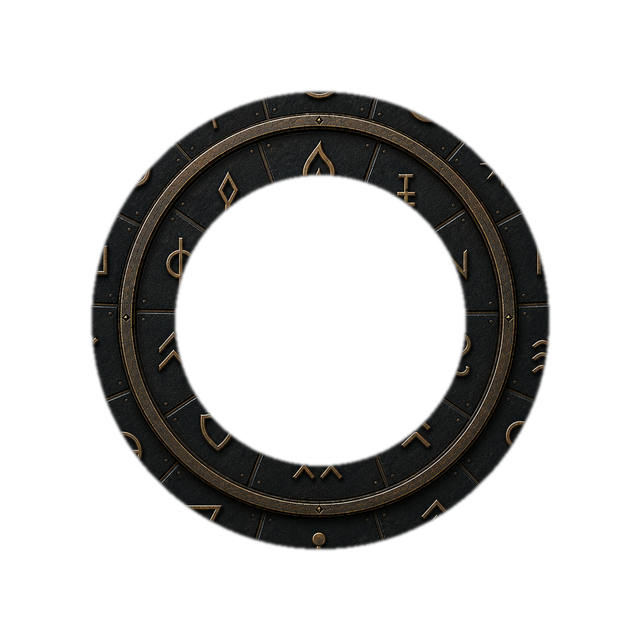
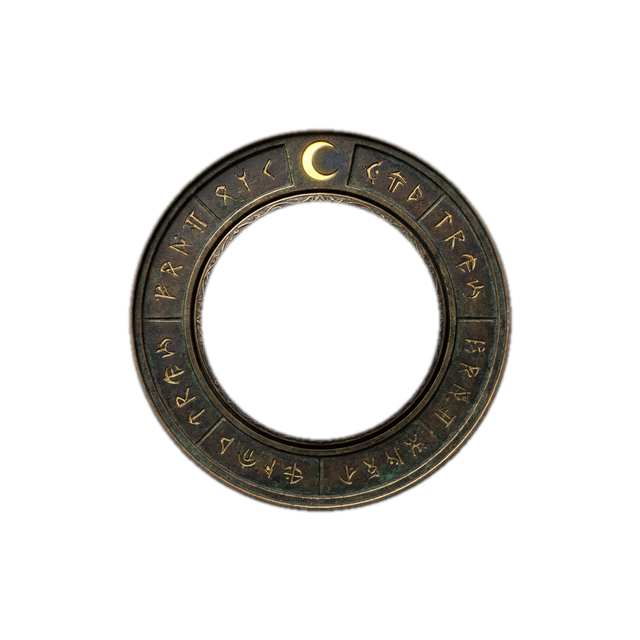
Deel 2: rollen gescheiden — boek geeft onzichtbaarheid, DEURZEGEL (nieuwe visual) opent de deur
Duidelijke driedeling:
1. HEMELSCHIJF (zonnestelsel, verstrengelde ringen) -> zonsverduistering-spreuk
2. Met de zonsverduistering is het gloeiende BOEK te lezen -> SPREUK VAN ONZICHTBAARHEID
   (signsBook geeft nu direct de spreuk + toont de Umbra-Invisibilis-pagina; engine
   ondersteunt setFlag-array + give + firstText)
3. DEURZEGEL op het sterren-altaar (schijven + hendel) -> opent alleen de GEHEIME DEUR

Nieuwe visual voor de schijven-puzzel:
- Vers gegenereerd bronzen deurzegel (Higgsfield): drie draaibare ringen met gouden
  runen, en de doelen zichtbaar in het zegel zelf: ZON op de buitenste, MAAN op de
  middelste, STER op de binnenste ring - draai alle drie BOVENAAN en trek aan de hendel
- Zelfstandig oplosbaar (geen boek-referentie meer nodig); ringlagen naadloos gesneden,
  klik-banden bijgesteld; gate: schijven zitten 'muurvast' tot je de boek-geheimen kent
- Raaf/quests/looks volgen de nieuwe volgorde. Cache deel2 v155

Changed region(s): [[0.125, 0.125, 0.875, 0.875]]

diff --git a/games/ravenholt-deel2/js/data.js b/games/ravenholt-deel2/js/data.js
@@ -14,7 +14,7 @@ const GAME = {
   title:      { nl: 'Fluisteringen van Ravenholt — Deel 2', en: 'Whispers of Ravenholt — Part 2' },
   titleLines: { nl: ['Fluisteringen', 'van Ravenholt', '· Deel 2 ·'], en: ['Whispers of', 'Ravenholt', '· Part 2 ·'] },
   startScene: 'courtyard',
-  assetVer: '154',
+  assetVer: '155',
 
   /* Finn — vaste figuur: roodharige jongen, blauwe kapmantel, leren tas, houten staf.
      idle = hero, lopen = 4-frame loopsheet (heroWalkSheet), zwaaien = heroWave.
@@ -132,8 +132,8 @@ const GAME = {
     q_takespell:{ nl: 'De tovenaar zweeft in hogere sferen — bekijk het ZONNESTELSEL op de sokkel rechts en draai de hemelschijf: daar wacht de Zonsverduistering-spreuk', en: 'The wizard floats among the stars — examine the SOLAR SYSTEM on the pedestal to the right and turn the celestial disc: the Solar Eclipse spell awaits' },
     q_castEclipse:{ nl: 'Je hebt de Zonsverduistering-spreuk! Tik hem aan in je tas en spreek hem uit bij het grote raam van de bibliotheek', en: 'You have the Solar Eclipse spell! Tap it in your bag and speak it at the great library window' },
     q_telescope:{ nl: 'De zon is verduisterd en de sterren fonkelen — kijk snel door de telescoop bij het raam!', en: 'The sun is darkened and the stars sparkle — quick, look through the telescope by the window!' },
-    q_readbook: { nl: 'De zon is verduisterd — boven het gloeiende boek zweeft het HEMELZEGEL! Tik het boek aan en onthoud precies hoe de drie schijven staan', en: 'The sun is eclipsed — the CELESTIAL SEAL hovers above the glowing book! Tap the book and remember exactly how the three discs stand' },
-    q_altar:    { nl: 'Je zag het hemelzegel! Draai de drie schijven van het sterren-altaar precies zoals op het zegel (zon ☉ bovenaan) en trek aan de hendel — dan opent de geheime deur én wacht de onzichtbaarheidsspreuk', en: 'You saw the celestial seal! Turn the three discs of the star altar exactly as on the seal (sun ☉ at the top) and pull the lever — the secret door opens and the invisibility spell awaits' },
+    q_readbook: { nl: 'De zon is verduisterd — het gloeiende boek is nu te LEZEN! Tik het aan en ontvang de SPREUK VAN ONZICHTBAARHEID', en: 'The sun is eclipsed — the glowing book can be READ now! Tap it and receive the SPELL OF INVISIBILITY' },
+    q_altar:    { nl: 'De onzichtbaarheidsspreuk is binnen! Open nu de geheime deur: draai de schijven van het DEURZEGEL tot zon ☉, maan ☽ en ster ✦ alle drie bovenaan staan, en trek aan de hendel', en: 'The invisibility spell is yours! Now open the secret door: turn the DOOR SEAL discs until sun ☉, moon ☽ and star ✦ all sit at the top, then pull the lever' },
     q_dungeon:  { nl: 'De geheime deur staat open! Daal de trap af naar de kerker. Een wachter verspert de weg naar de gevangene — tik de onzichtbaarheidsspreuk aan om ongezien langs hem te sluipen', en: 'The secret door is open! Descend the stair to the dungeon. A guard blocks the way to the prisoner — tap the invisibility spell to slip past him unseen' },
     q_freefather:{ nl: 'Je bent onzichtbaar langs de wachter! Praat met de gevangene bij de tralies — hij fluistert de volgorde van het kerkerslot: zon, maan, ster... en het teken van zijn staf', en: 'You slipped past the guard unseen! Talk to the prisoner at the bars — he whispers the order of the dungeon lock: sun, moon, star... and the sign of his staff' },
     q_key:      { nl: 'De grendels zijn open! Pak nu MUISSTIL de sleutel van de wachttafel: trek alleen terwijl de wachter neuriet (♪) — hij kan je nog steeds horen', en: 'The bolts are open! Now take the key from the guard’s table SILENTLY: pull only while the guard hums (♪) — he can still hear you' },
@@ -156,7 +156,7 @@ const GAME = {
     staff: { name: { nl: 'Vaders Staf', en: 'Father’s Staff' }, icon: '🪄', img: 'assets/art/item-staff.png',
              look: { nl: 'De houten staf van mijn vader. Hij voelt vertrouwd in je hand — met de juiste spreuk in je boek kun je hem laten werken.', en: 'My father’s wooden staff. It feels familiar in your hand — with the right spell in your book you can make it work.' } },
     invisspell: { name: { nl: 'Onzichtbaarheidsspreuk', en: 'Invisibility Spell' }, icon: '👻', img: 'assets/art/item-invisspell.png', sparkle: true, border: 'blue',
-             look: { nl: 'De onzichtbaarheidsspreuk uit het hemelzegel op het sterren-altaar. De letters lijken weg te vagen terwijl je kijkt... Spreek hem uit waar een bewaker je níet mag zien. (Tik de spreuk aan om hem uit te spreken.)', en: 'The invisibility spell from the celestial seal on the star altar. Its letters seem to fade away as you watch... Speak it where a guard must not see you. (Tap the spell to cast it.)' } },
+             look: { nl: 'De onzichtbaarheidsspreuk uit het gloeiende boek — gelezen bij het licht van de zonsverduistering. De letters lijken weg te vagen terwijl je kijkt... Spreek hem uit waar een bewaker je níet mag zien. (Tik de spreuk aan om hem uit te spreken.)', en: 'The invisibility spell from the glowing book — read by the light of the solar eclipse. Its letters seem to fade away as you watch... Speak it where a guard must not see you. (Tap the spell to cast it.)' } },
     eclipsspell: { name: { nl: 'Zonsverduistering-spreuk', en: 'Solar Eclipse Spell' }, icon: '🌑', img: 'assets/art/item-eclipsspell.png', border: 'blue',
              look: { nl: 'De Spreuk van de Zonsverduistering — “Umbra Solis” — uit het gloeiende boek. Spreek hem uit bij het grote raam van de bibliotheek en de zon dooft, zodat de sterren zich overdag tonen. (Tik de spreuk aan om hem uit te spreken.)', en: 'The Spell of the Solar Eclipse — “Umbra Solis” — from the glowing book. Speak it at the great library window and the sun goes dark, so the stars show themselves by day. (Tap the spell to cast it.)' } },
     hammer: { name: { nl: 'Smidshamer', en: 'Blacksmith’s Hammer' }, icon: '🔨', img: 'assets/art/item-hammer.png',
@@ -843,11 +843,11 @@ const GAME = {
           look: (state) => state.flags.altarSolved
             ? { nl: '\u201CKrra! De geheime deur staat open \u2014 de trap af, de kerker in! En onthoud: wat een wachter niet z\u00EDet, kan hij niet tegenhouden...\u201D', en: '\u201CCaw! The secret door stands open \u2014 down the stairs, into the dungeon! And remember: what a guard cannot SEE, he cannot stop...\u201D' }
             : state.flags.sawSigns
-            ? { nl: '\u201CKrra! Je z\u00e1g het hemelzegel! Draai de drie schijven van het altaar precies zo \u2014 zon bovenaan! \u2014 en trek aan de hendel: dan zwaait de geheime deur open.\u201D', en: '\u201CCaw! You SAW the celestial seal! Turn the three discs of the altar to match \u2014 sun at the top! \u2014 and pull the lever: the secret door will swing open.\u201D' }
+            ? { nl: '\u201CKrra! De onzichtbaarheidsspreuk is van jou! Nu de geheime deur: draai de schijven van het altaar \u2014 zon, maan \u00e9n ster B\u00d3VENAAN \u2014 en trek aan de hendel!\u201D', en: '\u201CCaw! The invisibility spell is yours! Now the secret door: turn the altar discs \u2014 sun, moon AND star at the TOP \u2014 and pull the lever!\u201D' }
             : state.flags.eclipseActive
-            ? { nl: '\u201CKrra! De zon is gedoofd \u2014 kijk, boven het gloeiende boek zweeft het HEMELZEGEL! Bekijk het goed en onthoud hoe de schijven staan \u2014 dan weet je hoe het altaar moet.\u201D', en: '\u201CCaw! The sun is dark \u2014 look, the CELESTIAL SEAL hovers above the glowing book! Study it well and remember how the discs stand \u2014 then you know how to set the altar.\u201D' }
+            ? { nl: '\u201CKrra! De zon is gedoofd \u2014 het boek is nu te L\u00c9ZEN! Tik het aan: daarin wacht de spreuk van de onzichtbaarheid.\u201D', en: '\u201CCaw! The sun is dark \u2014 the book can be READ now! Tap it: the spell of invisibility waits inside.\u201D' }
             : state.flags.gotEclipseSpell
-            ? { nl: '\u201CKrra! Je hebt de spreuk! Tik hem aan in je tas en spreek hem uit \u2014 dan dooft de zon en verschijnt het hemelzegel boven het boek.\u201D', en: '\u201CCaw! You have the spell! Tap it in your bag and speak it \u2014 the sun will darken and the celestial seal will appear above the book.\u201D' }
+            ? { nl: '\u201CKrra! Je hebt de spreuk! Tik hem aan in je tas en spreek hem uit \u2014 dan dooft de zon en kun je het gloeiende boek eindelijk lezen.\u201D', en: '\u201CCaw! You have the spell! Tap it in your bag and speak it \u2014 the sun will darken and you can finally read the glowing book.\u201D' }
             : state.flags.wizardTripping
             ? { nl: '\u201CKrra! Moet je hem zien zweven... Sn\u00E9l \u2014 kijk naar het ZONNESTELSEL op de sokkel rechts! Draai de hemelschijf tot zon, maan en ster op \u00E9\u00E9n lijn staan \u2014 d\u00E1\u00E1r zit de zonsverduistering-spreuk in.\u201D', en: '\u201CCaw! Look at him float... Quick \u2014 look at the SOLAR SYSTEM on the pedestal to the right! Turn the celestial disc until sun, moon and star line up \u2014 that is where the eclipse spell hides.\u201D' }
             : { nl: 'De raaf zit parmantig op de vensterbank. \u201CKrra! Die oude tovenaar wijkt geen duimbreed van zijn instrumenten... Maar ik weet w\u00E1t hij niet kan weerstaan: paddenstoelen! Van die glimmende, bij de oude put op de binnenplaats.\u201D', en: 'The raven perches proudly on the windowsill. \u201CCaw! That old wizard will not budge an inch from his instruments... But I know what he cannot resist: mushrooms! The shiny kind, by the old well in the courtyard.\u201D' }
@@ -881,13 +881,13 @@ const GAME = {
           rect: { x: 228, y: 122, w: 92, h: 94 },
           walkTo: { x: 300, y: 256 },
           look: (state) => state.flags.altarSolved
-            ? { nl: 'Het grote boek rust; het hemelzegel is verbleekt. De onzichtbaarheidsspreuk staat veilig in jouw toverboek.', en: 'The great book rests; the celestial seal has faded. The invisibility spell sits safely in your spellbook.' }
+            ? { nl: 'Het grote boek rust. De onzichtbaarheidsspreuk staat veilig in jouw toverboek en de geheime deur staat open.', en: 'The great book rests. The invisibility spell sits safely in your spellbook and the secret door stands open.' }
             : state.flags.sawSigns
-            ? { nl: 'Je zag het HEMELZEGEL boven het boek zweven. Draai de drie schijven van het sterren-altaar precies zo \u2014 en trek dan aan de hendel.', en: 'You saw the CELESTIAL SEAL hovering above the book. Turn the three discs of the star altar to match \u2014 then pull the lever.' }
+            ? { nl: 'De onzichtbaarheidsspreuk staat in je toverboek. En die tekening achterin: het sterren-altaar met zon, maan en ster BÓVENAAN — draai de schijven precies zo en trek aan de hendel!', en: 'The invisibility spell is in your spellbook. And that drawing at the back: the star altar with sun, moon and star at the TOP — set the discs just so and pull the lever!' }
             : (state.flags.gotEclipseSpell && state.flags.eclipseActive)
-            ? { nl: 'Nu de zon verduisterd is, zweeft er een gloeiend HEMELZEGEL boven het boek: drie schijven vol tekens. Bekijk het goed \u2014 z\u00f3 moeten de schijven van het altaar staan!', en: 'Now that the sun is darkened, a glowing CELESTIAL SEAL hovers above the book: three discs full of signs. Study it well \u2014 that is how the altar discs must stand!' }
+            ? { nl: 'Nu de zon verduisterd is, gloeien de toverletters helder op — het boek is te LEZEN! Tik het aan en ontvang wat erin geschreven staat.', en: 'Now that the sun is darkened, the magic letters glow bright — the book can be READ! Tap it and receive what is written inside.' }
             : state.flags.gotEclipseSpell
-            ? { nl: 'Bij daglicht toont het grote boek alleen vage krabbels \u2014 maar bij een zonsverduistering verschijnt er een gloeiend zegel... Spreek de zonsverduistering-spreuk uit bij het raam en lees d\u00e1n het boek.', en: 'In daylight the great book shows only faint scribbles \u2014 but during a solar eclipse a glowing seal appears... Cast the eclipse spell at the window, then read the book.' }
+            ? { nl: 'Bij daglicht toont het grote boek alleen vage krabbels — alleen bij het licht van een zonsverduistering zijn de toverletters te lezen... Spreek de spreuk uit bij het raam en lees dán het boek.', en: 'In daylight the great book shows only faint scribbles — only by the light of a solar eclipse can the magic letters be read... Cast the spell at the window, then read the book.' }
             : state.flags.wizardTripping
             ? { nl: 'Het boek gloeit zacht, maar de bladzijden tonen enkel vreemde krabbels. In de kantlijn staat een kleine tekening: het ZONNESTELSEL op de sokkel, met draaiende ringen eromheen... Bekijk dat zonnestelsel eens!', en: 'The book glows softly, but its pages show only strange scribbles. In the margin sits a small drawing: the SOLAR SYSTEM on the pedestal, with turning rings around it... Take a look at that solar system!' }
             : { nl: 'Een groot boek op de lessenaar gloeit zacht. De tovenaar houdt het scherp in de gaten \u2014 je durft het niet aan te raken.', en: 'A great book on the lectern glows softly. The wizard watches it sharply \u2014 you dare not touch it.' },
@@ -897,9 +897,11 @@ const GAME = {
               ? { nl: 'Je bladert door het boek: vreemde krabbels, en \u00e9\u00e9n tekeningetje van het zonnestelsel op de sokkel met draaiende ringen. D\u00e1\u00e1r moet je zijn \u2014 bekijk het zonnestelsel!', en: 'You leaf through the book: strange scribbles, and one little drawing of the solar system on the pedestal with turning rings. That is where to go \u2014 look at the solar system!' }
               : { nl: '\u201cNiemand raakt de sterrenspreuken aan!\u201d snauwt de tovenaar. Zolang hij erbij is, kom je niet bij het boek. (De raaf fluistert: \u201cKrra... paddenstoelen, bij de put!\u201d)', en: '\u201cNo one touches the star spells!\u201d snaps the wizard. While he is watching you cannot reach the book. (The raven whispers: \u201cCaw... mushrooms, by the well!\u201d)' },
             eclipseFlag: 'eclipseActive',
-            dayText: { nl: 'Bij daglicht zie je alleen vage krabbels. Toen de zon verduisterd was, zweefde er een gloeiend zegel boven het boek... Spreek de zonsverduistering-spreuk uit bij het raam en lees d\u00e1n het boek.', en: 'In daylight you see only faint scribbles. When the sun was eclipsed, a glowing seal hovered above the book... Cast the eclipse spell at the window, then read the book.' },
-            setFlag: 'sawSigns',
-            zoomImg: 'assets/art/hemelzegel.jpg'           // het zwevende HEMELZEGEL: precies z\u00f3 moeten de schijven van het altaar staan
+            dayText: { nl: 'Bij daglicht zie je alleen vage krabbels. Alleen bij het licht van een ZONSVERDUISTERING zijn de toverletters te lezen... Spreek de zonsverduistering-spreuk uit bij het raam en lees d\u00e1n het boek.', en: 'In daylight you see only faint scribbles. Only by the light of a SOLAR ECLIPSE can the magic letters be read... Cast the eclipse spell at the window, then read the book.' },
+            setFlag: ['sawSigns', 'gotInvisSpell'],
+            give: 'invisspell',
+            firstText: { nl: 'Bij het spookachtige eclipslicht worden de krabbels leesbaar: \u201cUmbra Invisibilis\u201d! Een zilveren bladzijde schrijft zich over in jouw toverboek \u2014 de SPREUK VAN ONZICHTBAARHEID is van jou! (En op de laatste bladzijde staat een tekening van het sterren-altaar: zon, maan en ster bovenaan...)', en: 'In the ghostly eclipse light the scribbles become readable: \u201cUmbra Invisibilis\u201d! A silver page writes itself into your spellbook \u2014 the SPELL OF INVISIBILITY is yours! (And on the last page: a drawing of the star altar \u2014 sun, moon and star at the top...)' },
+            zoomImg: 'assets/art/book-signs.jpg'           // de spreuk-pagina van de onzichtbaarheid
           }
         },
         {
@@ -952,26 +954,25 @@ const GAME = {
           walkTo: { x: 404, y: 282 },
           look: (state) => state.flags.altarSolved
             ? { nl: 'Het altaar rust weer. De drie sterren-tekens gloeien zachtjes na in het steen.', en: 'The altar rests again. The three star signs glow faintly in the stone.' }
-            : { nl: 'Op het altaar ligt een rond ijzeren HEMELZEGEL: drie draaibare schijven vol gegraveerde tekens rond een blauwe steen, met een hendel ernaast. Hoe moeten de schijven staan? Het antwoord verschijnt vast ergens...', en: 'On the altar lies a round iron CELESTIAL SEAL: three turnable discs full of engraved signs around a blue stone, with a lever beside it. How must the discs stand? The answer must appear somewhere...' },
+            : { nl: 'Op het altaar ligt een rond stenen DEURZEGEL: drie draaibare schijven vol gegraveerde tekens rond een blauwe steen, met een hendel ernaast. Bovenop de rand is een wijzer gebeiteld — wat moet daaronder komen te staan?', en: 'On the altar lies a round stone DOOR SEAL: three turnable discs full of engraved signs around a blue stone, with a lever beside it. A pointer is chiselled at the top of the rim — what should sit beneath it?' },
           discPuzzle: {
-            requiresFlag: 'sawSigns',
-            blockedText: { nl: 'Een rond ijzeren zegel met drie draaibare schijven vol tekens... maar hoe m\u00f3\u00e9ten ze staan? Je hebt geen idee \u2014 bekijk eerst het gloeiende boek tijdens een zonsverduistering: daar verschijnt het voorbeeld.', en: 'A round iron seal with three turnable discs full of signs... but how MUST they stand? You have no idea \u2014 first study the glowing book during a solar eclipse: the example appears there.' },
+            requiresFlag: 'gotInvisSpell',
+            blockedText: { nl: 'Een rond stenen deurzegel met drie draaibare schijven. Ze zitten muurvast \u2014 er glinstert toverkracht overheen. Misschien komen ze los als je de geheimen van het gloeiende boek kent...', en: 'A round stone door-seal with three turnable discs. They are stuck fast \u2014 magic shimmers across them. Perhaps they will come loose once you know the secrets of the glowing book...' },
             imgBase:  'assets/art/seal-base.jpg',
             imgOuter: 'assets/art/seal-ring-outer.png',
             imgMid:   'assets/art/seal-ring-mid.png',
             imgInner: 'assets/art/seal-ring-inner.png',
-            title: { nl: 'Het Hemelzegel', en: 'The Celestial Seal' },
-            hint: { nl: 'Draai de drie schijven \u2014 tik links of rechts van de buitenste, middelste of binnenste schijf \u2014 tot alle tekens PRECIES zo staan als op het zegel dat boven het boek zweefde (de zon \u2609 bovenaan!). Trek dan aan de HENDEL.', en: 'Turn the three discs \u2014 tap left or right of the outer, middle or inner disc \u2014 until every sign stands EXACTLY as on the seal that hovered above the book (the sun \u2609 at the top!). Then pull the LEVER.' },
+            title: { nl: 'Het Deurzegel', en: 'The Door Seal' },
+            hint: { nl: 'Draai de drie schijven \u2014 tik links of rechts van de buitenste, middelste of binnenste schijf \u2014 tot de ZON \u2609 (buitenste), de MAAN \u263d (middelste) en de STER \u2726 (binnenste) alle drie B\u00d3VENAAN onder de wijzer staan. Trek dan aan de HENDEL!', en: 'Turn the three discs \u2014 tap left or right of the outer, middle or inner disc \u2014 until the SUN \u2609 (outer), the MOON \u263d (middle) and the STAR \u2726 (inner) all sit at the TOP under the pointer. Then pull the LEVER!' },
             rings: [
               { start: 5 },
               { start: 8 },
               { start: 3 }
             ],
-            setFlag: ['altarSolved', 'gotInvisSpell'],
-            give: 'invisspell',
+            setFlag: ['altarSolved'],
             relight: { setFlag: 'libRelit', clearFlag: 'eclipseActive', delay: 2600, text: { nl: 'Achter het raam schuift de zwarte schijf weg van de zon. Het daglicht stroomt terug de zaal in \u2014 en in de muur, waar zojuist een boekenkast stond, gaapt nu een donkere doorgang naar beneden...', en: 'Behind the window the black disc slides off the sun. Daylight floods back into the hall \u2014 and in the wall, where a bookcase stood a moment ago, a dark passage now yawns downward...' } },
-            wrongText: { nl: 'Je trekt aan de hendel... maar het zegel blijft dof en de schijven schieten terug. Ze staan nog niet zoals op het zegel in het boek \u2014 draai verder en vergelijk goed (de zon \u2609 hoort bovenaan).', en: 'You pull the lever... but the seal stays dull and the discs snap back. They are not yet as on the seal in the book \u2014 keep turning and compare well (the sun \u2609 belongs at the top).' },
-            solvedText: { nl: 'Alle tekens vallen op hun plek \u2014 het HEMELZEGEL vlamt goudkleurig op! Met een diep, knarsend gerommel zwaait achter de boekenkast een GEHEIME DEUR open, en op het altaar schrijft een zilveren bladzijde zich in je toverboek: de SPREUK VAN ONZICHTBAARHEID! Achter de deur voert een trap omlaag, de duisternis in \u2014 naar de kerker...', en: 'Every sign falls into place \u2014 the CELESTIAL SEAL blazes golden! With a deep grinding rumble a SECRET DOOR swings open behind the bookcase, and on the altar a silver page writes itself into your spellbook: the SPELL OF INVISIBILITY! Beyond the door a stair leads down, into the dark \u2014 toward the dungeon...' },
+            wrongText: { nl: 'Je trekt aan de hendel... maar het zegel blijft dof en de schijven schieten terug. Nog niet juist: de zon \u2609, de maan \u263d \u00e9n de ster \u2726 moeten alle drie B\u00d3VENAAN staan.', en: 'You pull the lever... but the seal stays dull and the discs snap back. Not right yet: the sun \u2609, the moon \u263d and the star \u2726 must ALL sit at the TOP.' },
+            solvedText: { nl: 'Zon, maan en ster klikken bovenaan op \u00e9\u00e9n lijn \u2014 het DEURZEGEL vlamt goudkleurig op! Met een diep, knarsend gerommel zwaait achter de boekenkast een GEHEIME DEUR open. Daarachter voert een trap omlaag, de duisternis in \u2014 naar de kerker...', en: 'Sun, moon and star click into line at the top \u2014 the DOOR SEAL blazes golden! With a deep grinding rumble a SECRET DOOR swings open behind the bookcase. Beyond it a stair leads down, into the dark \u2014 toward the dungeon...' },
             doneText: { nl: 'Het zegel rust; de tekens gloeien zachtjes na en de geheime deur staat open. Een trap voert omlaag, de kerker in.', en: 'The seal rests; the signs glow faintly and the secret door stands open. A stair leads down, into the dungeon.' }
           }
         }

diff --git a/games/ravenholt-deel2/index.html b/games/ravenholt-deel2/index.html
@@ -26,7 +26,7 @@
   <link rel="preconnect" href="https://fonts.googleapis.com">
   <link rel="preconnect" href="https://fonts.gstatic.com" crossorigin>
   <link href="https://fonts.googleapis.com/css2?family=Crimson+Pro:ital,wght@0,400;0,600;1,400&family=Pixelify+Sans:wght@400;600&display=swap" rel="stylesheet">
-  <link rel="stylesheet" href="css/style.css?v=154">
+  <link rel="stylesheet" href="css/style.css?v=155">
   <script type="application/ld+json">
   {
     "@context": "https://schema.org",
@@ -125,7 +125,7 @@
   </div>
 
   <div id="title-screen" class="overlay title">
-    <img class="title-bg" src="assets/art/title.jpg?v=154" alt="Whispers of Ravenholt" onerror="this.remove()">
+    <img class="title-bg" src="assets/art/title.jpg?v=155" alt="Whispers of Ravenholt" onerror="this.remove()">
     <div class="title-content">
       <h1 id="title-h1" hidden><span>Whispers of</span><br><span>Ravenholt</span></h1>
       <p id="title-sub" class="subtitle" hidden>Een point-and-click avontuur</p>
@@ -146,7 +146,7 @@
 
   <div id="win-screen" class="overlay" hidden>
     <div class="overlay-card panel">
-      <img class="win-banner" src="assets/art/win-deel2.jpg?v=154" alt="" onerror="this.remove()">
+      <img class="win-banner" src="assets/art/win-deel2.jpg?v=155" alt="" onerror="this.remove()">
       <h1 id="win-h1">Deel 1 uitgespeeld!</h1>
       <p class="intro" id="winText"></p>
       <button id="replayBtn" class="gold-btn">Opnieuw spelen</button>
@@ -297,10 +297,10 @@
     </div>
   </div>
 
-  <script src="js/sprites.js?v=154"></script>
-  <script src="js/scenes.js?v=154"></script>
-  <script src="js/data.js?v=154"></script>
-  <script src="js/engine.js?v=154"></script>
+  <script src="js/sprites.js?v=155"></script>
+  <script src="js/scenes.js?v=155"></script>
+  <script src="js/data.js?v=155"></script>
+  <script src="js/engine.js?v=155"></script>
   <script>
     if ('serviceWorker' in navigator) {
       window.addEventListener('load', () => {

diff --git a/games/ravenholt-deel2/js/engine.js b/games/ravenholt-deel2/js/engine.js
@@ -4687,8 +4687,8 @@
         const cx = elAltarCanvas.width / 2, cy = elAltarCanvas.height / 2;
         const s2 = Math.min(elAltarCanvas.width, elAltarCanvas.height) / 2;
         const rr = Math.hypot(px - cx, py - cy) / s2;
-        if (rr <= 1.04 && rr > 0.18) {
-          const ring = rr > 0.705 ? 0 : rr > 0.45 ? 1 : 2;
+        if (rr <= 1.04 && rr > 0.155) {
+          const ring = rr > 0.59 ? 0 : rr > 0.37 ? 1 : 2;   // banden van het nieuwe deurzegel
           discShift(ring, px < cx ? -1 : 1);
         }
         return;
@@ -5689,9 +5689,16 @@
         openSymbolPuzzle(Object.assign({}, hs, { symbolPuzzle: bs.puzzle }));
         return;
       }
-      if (bs.setFlag && !state.flags[bs.setFlag]) { state.flags[bs.setFlag] = true; updateQuest(); }   // bv. het hemelzegel gezien
-      sfx('tap');
-      if (bs.zoomImg) openZoom(bs.zoomImg);                 // toon het zegel (ook als geheugensteun bij opnieuw lezen)
+      if (bs.setFlag && !symFlagDone(bs.setFlag)) {          // eerste keer lezen: spreuk + vlaggen
+        (Array.isArray(bs.setFlag) ? bs.setFlag : [bs.setFlag]).forEach((f) => { state.flags[f] = true; });
+        if (bs.give) addItem(bs.give);
+        sfx('combine');
+        updateQuest();
+      } else {
+        sfx('tap');
+      }
+      if (bs.zoomImg) openZoom(bs.zoomImg);                 // toon de spreuk-pagina (ook als geheugensteun bij opnieuw lezen)
+      if (bs.firstText && state.flags.__signsBookSaid !== true) { state.flags.__signsBookSaid = true; say(bs.firstText, hsSpeaker(hs)); }
       return;
     }
     if (hs.discPuzzle) {

diff --git a/games/ravenholt-deel2/sw.js b/games/ravenholt-deel2/sw.js
@@ -4,7 +4,7 @@
    offline beschikbaar wilt hebben (optioneel — niet-vermelde bestanden worden bij
    eerste gebruik alsnog gecachet). */
 
-const CACHE = 'ravenholt2-v154';
+const CACHE = 'ravenholt2-v155';
 
 const PRECACHE = [
   './',
